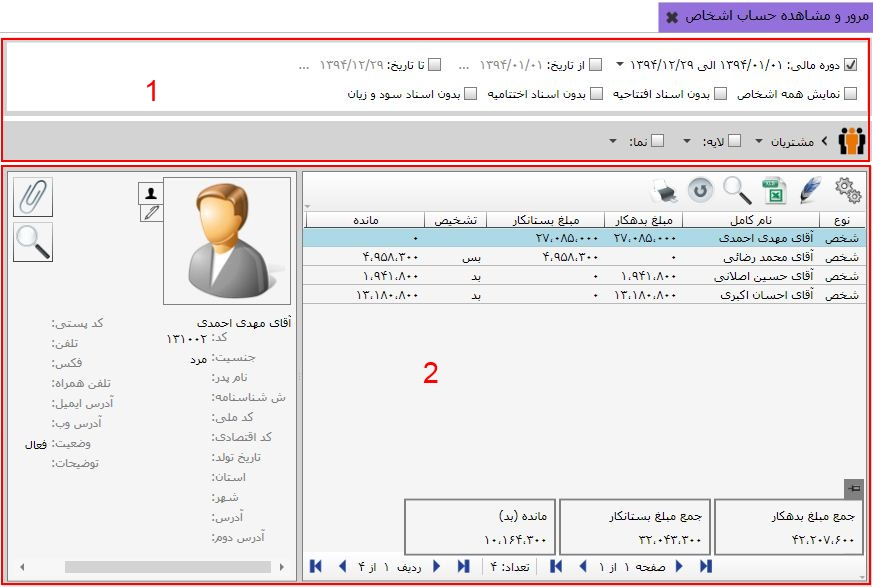
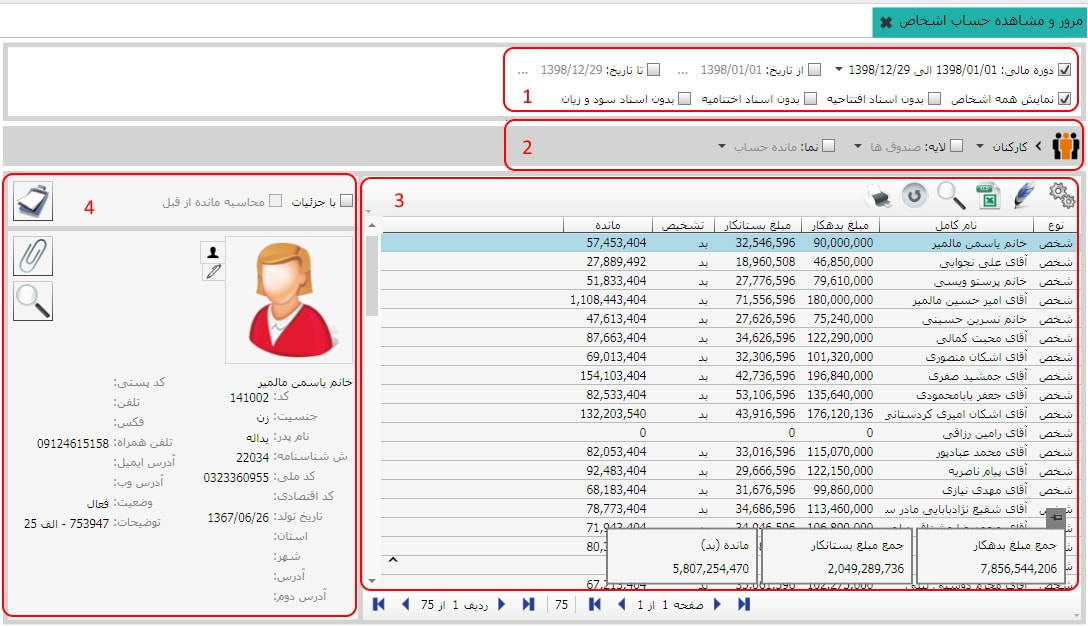
مرور و مشاهده ی حساب اشخاص و تهیه و چاپ حساب اشخاص

Changed region(s): [[0.0, 0.0, 1.0, 1.0], [0.1546, 0.1227, 0.1856, 0.1533]]

diff --git a/Help/fa-IR/_06_خرید و فروش/_16_تهیه و چاپ حساب اشخاص/Index.html b/Help/fa-IR/_06_خرید و فروش/_16_تهیه و چاپ حساب اشخاص/Index.html
@@ -12,86 +12,79 @@
 		<h1> تهیه و چاپ حساب اشخاص </h1>
 	</div>
 	<p>
-		در صورتی که بخواهید گزارشی از گردش حساب 
-		اشخاص در سیستم داشته باشید می توانید از امکانات این فرم استفاده کنید و
-		گزارش مربوط به هر شخص را به صورت جداگانه به چاپ برسانید.
-	</p>
-	<p>
-		در این صفحه شما می توانید با انتخاب
-		 شخص خاص و مشخص کردن دوره مالی و محدوده تاریخی خاص، از حساب آن شخص در بازه
-		زمانی مورد نظر گزارش بگیرید.
-	</p>
-	<p>
-		با کلیک روی تهیه و چاپ حساب اشخاص شکل زیر نمایش داده می شود:
+		در صورتی که بخواهید گزارشی از
+		گردش حساب اشخاص در سیستم داشته باشید می توانید از
+		امکانات این فرم استفاده کنید و گزارش مربوط به
+		هر شخص را به صورت جداگانه به چاپ برسانید.
+		در این صفحه شما می توانید با انتخاب شخص خاص و مشخص کردن
+		دوره مالی و محدوده تاریخی خاص، از حساب آن
+		شخص در بازه زمانی مورد نظر گزارش بگیرید.
+		با کلیک روی تهیه و چاپ
+		حساب اشخاص صفحه ی زیر نمایان می شود:
 	</p>
 	<img class="FitPic" src="l1.jpg" />
 	<p>
-		صفحه تهیه و چاپ حساب اشخاص دارای جزئیاتی است که در ادامه آن ها را شرح می دهیم:
+		تصویر بالا شامل سه کادر می باشد که در زیر به شرح هر یک می پردازیم :
 	</p>
+	<strong class="title">کادر شماره 1:</strong>
+	<br>
+	<img class="picintext" src="g1.jpg" />
 	<p>
-		در این قسمت می توانید از لیست اشخاص نام شخص مورد نظر خود را انتخاب کنید.
+		در این قسمت شخص مورد نظر را تعیین می کنید، بلافاصله در کادر شماره ی دو
+		مانده حساب شخص نمایش داده می شود و در کادر شماره ی سه می توانید اطلاعات شخص را مشاهده کنید.
 	</p>
+	<img class="picintext" src="g2.jpg" />
 	<p>
-		<img class="PicInText" src="pit1.jpg" />
-		چنانچه شخص انتخابی شما در چند معین 
-		دارای گردش باشد با کلیلک بر باکس معین می توانید یکی از معین های موجود در لیست
-		را انتخاب کنید و فقط ازگردش شخص در آن معین گزارش بگیرید.
+		با استفاده از این باکس می توانید لایه ی مورد نظر خود را در حساب شخص اعمال کنید،
+		به طور مثال اگر شخصی هم پرسنل شرکت باشد و هم سهامدار با انتخاب لایه ی سهامداران
+		می توانید فقط گردش های مربوط به سهامدار بودن شخص را مشاهده کنید.
 	</p>
+	<img class="picintext" src="g3.jpg" />
 	<p>
-		در این صفحه می توانید مانده حساب شخص را در حالت های مختلف مشاهده نمایید.
+		با استفاده از فیلتر نما می توانید فقط گردش حساب مربوط به نمای اعمال شده را
+		مشاهده کنید.
 	</p>
-	<img class="FitPic" src="l2.jpg" />
+	<img class="picintext" src="g4.jpg" />
 	<p>
-		زمانی که بازه تاریخی خاصی را انتخاب کنید، مانده حساب شخص در آن بازه تاریخی نمایش داده می شود.
+		در این قسمت می توانید دوره مالی مورد نظر خود را تعیین کنید که در
+		این صورت فقط گردش های مربوط به دوره ی مالی تعیین شده نمایش داده می شود.
 	</p>
+	<img class="picintext" src="g5.jpg" />
 	<p>
-		<img class="PicBeginText" src="pbt1.jpg" />
-		با فعال کردن گزینه لایه و 
-		انتخاب یکی از لایه های موجود در لیست لایه ها، می توانید مانده حساب شخص را در لایه
-		انتخاب شده مشاهده کنید.
+		با فعال کردن این باکس می توانید بازه ی زمانی مورد نظر خود را تعیین کنید
+		که در این صورت فقط گردش حسابهایی که در بازه ی زمانی تعیین شده قرار دارند
+		نمایش داده می شوند.
 	</p>
+	<img class="picintext" src="g6.jpg" />
 	<p>
-		<img class="PicBeginText" src="pbt2.jpg" />
-		بسیار پیش می آید که یک
-		 شخص در چندین معین گردش حساب داشته باشد، مثلا بدهکاران، بستانکاران، حقوق پرداختنی و ... .
-		می توانید هر یک از این
-		 معین ها را به صورت جداگانه و یا ترکیبی از چند معین در نمای حساب تعریف کنید تا بتوانید
-		مانده حساب شخص را در هر یک از معین ها و یا به صورت ترکیبی در معین های دلخواه مشاهده نمایید.
-		<br />در شکل بالا مانده حساب شخص
-		 در نمای بدهکاران که تنها شامل مانده حساب معین بدهکاران تجاری می باشد نمایش داده
-		شده است.
+		هنگامی که باکس بازه ی زمانی را فعال می کنید باکس محاسبه ی مانده از قبل
+		نیز فعال می شود، که باعث می شود مانده حساب شخص
+		را قبل از بازه زمانی انتخاب شده در گزارش دخیل کند.
 	</p>
+	<strong class="title">کادر شماره 2:</strong>
+	<br>
+	<img class="picintext" src="g7.jpg" />
 	<p>
-		<img class="PicInText" src="pit2.jpg" />
-		در صورتی که گزینه «با جزئیات» 
-		را تیک بزنید گزارشی می توانید بگیرید که جزئیات اسناد را نیز شامل شود. (اعم از ریز
-		فاکتور خرید و فروش، جزئیات اسناد خزانه و ....)
+		بعد از اینکه در کادر شماره ی یک شخص و فیلتر های مورد نظر را تعیین کردید
+		در این قسمت می توانید مانده حساب شخص را بر اساس فیلتر هایی که تعیین کرده اید
+		مشاهده کنید.
 	</p>
+	<img class="picintext" src="g8.jpg" />
 	<p>
-		<img class="PicBeginText" src="pbt3.jpg" />
-		در صورتی که باکس انتخاب 
-		بازه زمانی را فعال کرده باشیم، گزینه محاسبه مانده از قبل هم فعال می شود که مانده حساب
-		شخص را قبل از بازه زمانی انتخاب شده در گزارش دخیل می کند.
+		بعد از انتخاب شخص و تعیین فیلتر های مورد نظر در کادر شماره ی یک
+		اگر بر روی این کلید کلیک کنید می توانید گردش حساب شخص را بر اساس فیلترهایی
+		که تعیین کرده اید مشاهده کنید.
 	</p>
+	<strong class="title">کادر شماره 3:</strong>
 	<p>
-		همان طور که مشاهده می کنید
-		 در صفحه تهیه و چاپ حساب اشخاص، در صورتی که نام شخص خاصی را از لیست اشخاص انتخاب کنید،
-		جزئیات اطلاعات شخص در پایین صفحه نمایش داده می شود.
+		هنگامی که از کادر شماره ی یک شخص مورد نظر را انتخاب می کنید
+		در کادر شماره ی سه می توانید اطلاعات ریز شخص را مشاهده کنید.
 	</p>
-
-
-
-
-
-
-
-
-
-
-
-
-
-
+	<img class="picintext" src="g9.jpg" />
+	<p>
+		با استفاده از این آیکن می توانید در صورت نیاز فایلی را به
+		اطلاعات یک شخص ضمیمه کنید.
+	</p>
 </body>
 
 </html>

diff --git a/Help/fa-IR/_06_خرید و فروش/_15_مرور و مشاهده حساب اشخاص/Index.html b/Help/fa-IR/_06_خرید و فروش/_15_مرور و مشاهده حساب اشخاص/Index.html
@@ -12,41 +12,81 @@
 		<h1> مرور و مشاهده حساب اشخاص </h1>
 	</div>
 	<p>
-		اگر در سیستم حسابداری
-		 به شما دسترسی مرور حساب اشخاص داده شده باشد در این قسمت می توانید
-		حساب اشخاص را مرور کنید. برای این کار کافی است از منوی مرور و گزارشات،
-		قسمت « مرور و مشاهده حساب اشخاص» را انتخاب کنید پنجره زیر نمایان می شود:
+		اگر در سیستم حسابداری به
+		شما دسترسی مرور حساب اشخاص داده شده باشد
+		در این قسمت می توانید حساب اشخاص را مرور کنید،
+		تصویر زیر صفحه ی مرور و مشاهده ی حساب اشخاص را
+		نمایش می دهد:
 	</p>
 	<img class="FitPic" src="l1.jpg" />
 	<p>
-		در نوار بالای این صفحه
-		 (قسمت شماره 1) شما می توانید دوره مالی مورد نظر را انتخاب کنید و حساب
-		اشخاصی که درآن دوره گردش دارند را مرور کنید. همچنین می توانید با
-		انتخاب گروه شخص (که قبلا در منوی تعریف گروه های اشخاص تعریف شده است)
-		از باکس گروه اشخاص و انتخاب لایه و نمای مورد نظر(برای تعریف نما
-		به راهنمای تعریف نمای حساب در سیستم مالی و حسابداری مراجعه کنید)
-		حساب اشخاص را مرور کنید. علاوه بر این در این نوار شما می توانید
-		با انتخاب هر کدام از فیلدهای بدون اسناد افتتاحیه، بدون اسناد اختتامیه
-		و بدون اسناد سود و زیان، حساب ها را بدون هر کدام از این سه مورد مرور کنید.
+		<strong class="title">کادر شماره 1:</strong>
+		<br>
+		<img class="picintext" src="g1.jpg" />
+		<br>
+		اگر دوره های مالی مختلفی داشته باشید از این قسمت
+		می توانید دوره مالی مورد نظر خود را تعیین کنید،
+		هنگامی که دوره ی مالی را تعیین می کنید سیستم فقط
+		گردش های موجود در دوره ی مالی تعیین شده را
+		نمایش می دهد.
 	</p>
+	<img class="picintext" src="g4.jpg" />
 	<p>
-		چنانچه گزینه « نمایش همه اشخاص» را
-		 انتخاب کنید اشخاص یا گروه هایی که حساب آن ها فاقدگردش
-		می باشد نیز در جدول وسط صفحه « مرور و مشاهده حساب اشخاص» نمایش داده خواهد شد.
+		در این قسمت می توانید بازه ی زمانی مورد نظر خود را تعیین کنید
+		در صورت استفاده از این گزینه سیستم تنها گردش های موجود در بازه ی زمانی
+		تعیین شده را نمایش می دهد.
 	</p>
+	<img class="picintext" src="g6.jpg" />
 	<p>
-		در جدول موجود در قسمت شماره 2 می توانید « گروه های اشخاص» و در سطح پایین
-		« اشخاص» را همراه با مبلغ بدهکار و مبلغ بستانکار و مانده مشاهده کنید. چنانچه مایل
-		بودید ریز گردش حساب یک شخص را ببینید می توانید با انتخاب آن شخص و کلیک بر آیکن
-		<img class="Icon" src="i2.png" />
-		مشاهده گردش در سمت چپ در پنجره ای جداگانه آن گردش را مشاهده کنید.
+		چنانچه گزینه « نمایش همه اشخاص» را انتخاب کنید اشخاص یا گروه هایی که
+		حساب آن ها فاقد گردش می باشند نیز نمایش داده می شوند.
 	</p>
-	<img class="FitPic" src="l2.jpg" />
+	<img class="picintext" src="g3.jpg" />
 	<p>
-		شکل قبل پنجره مربوط به
-		« مشاهده گردش» را نمایش می دهد که شامل گردش حساب شخص انتخاب شده می باشد. در این پنجره
-		می توانید گردش حساب شخص را توسط فیلتر هایی که در اختیارتان قرار دارد فیلتر نمایید.
-		توضیحات کامل تر این صفحه را می توانید در راهنمای سیستم حسابداری مطالعه نمایید.
+		در صورت اعمال این گزینه سیستم سند های افتتاحیه را در گردش ها لحاظ نمی کند.
+	</p>
+	<img class="picintext" src="g2.jpg" />
+	<p>
+		در صورت اعمال این گزینه سیستم سند های اختتامیه را در گردش ها لحاظ نمی کند.
+	</p>
+	<img class="picintext" src="g5.jpg" />
+	<p>
+		اگر این گزینه را اعمال کنید سیستم سند های سود و زیان را
+		در گردش ها لحاظ نمی کند.
+	</p>
+	<strong class="title">کادر شماره 2:</strong>
+	<br>
+	<img class="picintext" src="g7.jpg" />
+	<p>
+		در این کادر می توانید فیلتر هایی نظیر گروه اشخاص، لایه و نما ایجاد کنید
+		و گزارش حساب اشخاص را بر مبنای فیلتر های اعمال شده دریافت کنید.
+	</p>
+	<strong class="title">کادر شماره 3:</strong>
+	<p>
+		پس از اعمال فیلتر های مورد نظر در کادر شماره ی یک و دو
+		می توانید در کادر شماره ی سه گزارش حساب مد نظر خود را
+		مشاهده نمایید.
+	</p>
+	<strong class="title">کادر شماره 4:</strong>
+	<p>
+		با انتخاب هر یک از اشخاص نمایش داده شده در کادر شماره ی سه می توانید ریز اطلاعات
+		آن شخص را در این کادر مشاهده نمایید، همچنین در این کادر سه آیکن وجود دارد
+		که به شرح هر یک می پردازیم :
+	</p>
+	<img class="picintext" src="g8.jpg" />
+	<p>
+		با انتخاب یک شخص از کادر شماره ی سه و کلیک بر روی این گزینه
+		می توانید از گردش حساب آن شخص چاپ بگیرید
+	</p>
+	<img class="picintext" src="g9.jpg" />
+	<p>
+		بعد از انتخاب یک شخص از کادر شماره ی سه و کلیک بر روی این
+		آیکن می توانید فایل مورد نظرتان را ضمیمه ی حساب شخص کنید.
+	</p>
+	<img class="picintext" src="g10.jpg" />
+	<p>
+		با انتخاب یک شخص از کادر شماره ی سه و کلیک بر روی این آیکن می توانید
+		گردش حساب شخص انتخابی را مشاهده نمایید.
 	</p>
 </body>
 

diff --git a/Help/fa-IR/_06_خرید و فروش/_14_گزارشات ماهانه فروش/Index.html b/Help/fa-IR/_06_خرید و فروش/_14_گزارشات ماهانه فروش/Index.html
@@ -9,45 +9,14 @@
 <body>
 	<div>
 		<img class="Icon" src="i1.png" />
-		<h1> مرور و مشاهده حساب اشخاص </h1>
+		<h1> گزارشات ماهانه فروش </h1>
 	</div>
 	<p>
-		اگر در سیستم حسابداری
-		 به شما دسترسی مرور حساب اشخاص داده شده باشد در این قسمت می توانید
-		حساب اشخاص را مرور کنید. برای این کار کافی است از منوی مرور و گزارشات،
-		قسمت « مرور و مشاهده حساب اشخاص» را انتخاب کنید پنجره زیر نمایان می شود:
-	</p>
-	<img class="FitPic" src="l1.jpg" />
-	<p>
-		در نوار بالای این صفحه
-		 (قسمت شماره 1) شما می توانید دوره مالی مورد نظر را انتخاب کنید و حساب
-		اشخاصی که درآن دوره گردش دارند را مرور کنید. همچنین می توانید با
-		انتخاب گروه شخص (که قبلا در منوی تعریف گروه های اشخاص تعریف شده است)
-		از باکس گروه اشخاص و انتخاب لایه و نمای مورد نظر(برای تعریف نما
-		به راهنمای تعریف نمای حساب در سیستم مالی و حسابداری مراجعه کنید)
-		حساب اشخاص را مرور کنید. علاوه بر این در این نوار شما می توانید
-		با انتخاب هر کدام از فیلدهای بدون اسناد افتتاحیه، بدون اسناد اختتامیه
-		و بدون اسناد سود و زیان، حساب ها را بدون هر کدام از این سه مورد مرور کنید.
-	</p>
-	<p>
-		چنانچه گزینه « نمایش همه اشخاص» را
-		 انتخاب کنید اشخاص یا گروه هایی که حساب آن ها فاقدگردش
-		می باشد نیز در جدول وسط صفحه « مرور و مشاهده حساب اشخاص» نمایش داده خواهد شد.
-	</p>
-	<p>
-		در جدول موجود در قسمت شماره 2 می توانید « گروه های اشخاص» و در سطح پایین
-		« اشخاص» را همراه با مبلغ بدهکار و مبلغ بستانکار و مانده مشاهده کنید. چنانچه مایل
-		بودید ریز گردش حساب یک شخص را ببینید می توانید با انتخاب آن شخص و کلیک بر آیکن
-		<img class="Icon" src="i2.png" />
-		مشاهده گردش در سمت چپ در پنجره ای جداگانه آن گردش را مشاهده کنید.
-	</p>
-	<img class="FitPic" src="l2.jpg" />
-	<p>
-		شکل قبل پنجره مربوط به
-		« مشاهده گردش» را نمایش می دهد که شامل گردش حساب شخص انتخاب شده می باشد. در این پنجره
-		می توانید گردش حساب شخص را توسط فیلتر هایی که در اختیارتان قرار دارد فیلتر نمایید.
-		توضیحات کامل تر این صفحه را می توانید در راهنمای سیستم حسابداری مطالعه نمایید.
-	</p>
+		نحوه ی تهیه ی گزارش در گزارشات ماهانه فروش درست مثل گزارشات ماتریسی می باشد،
+		لطفا به آن بخش مراجعه فرمایید.
+
+		<img class="FitPic" src="l1.jpg" />
+
 </body>
 
 </html>
